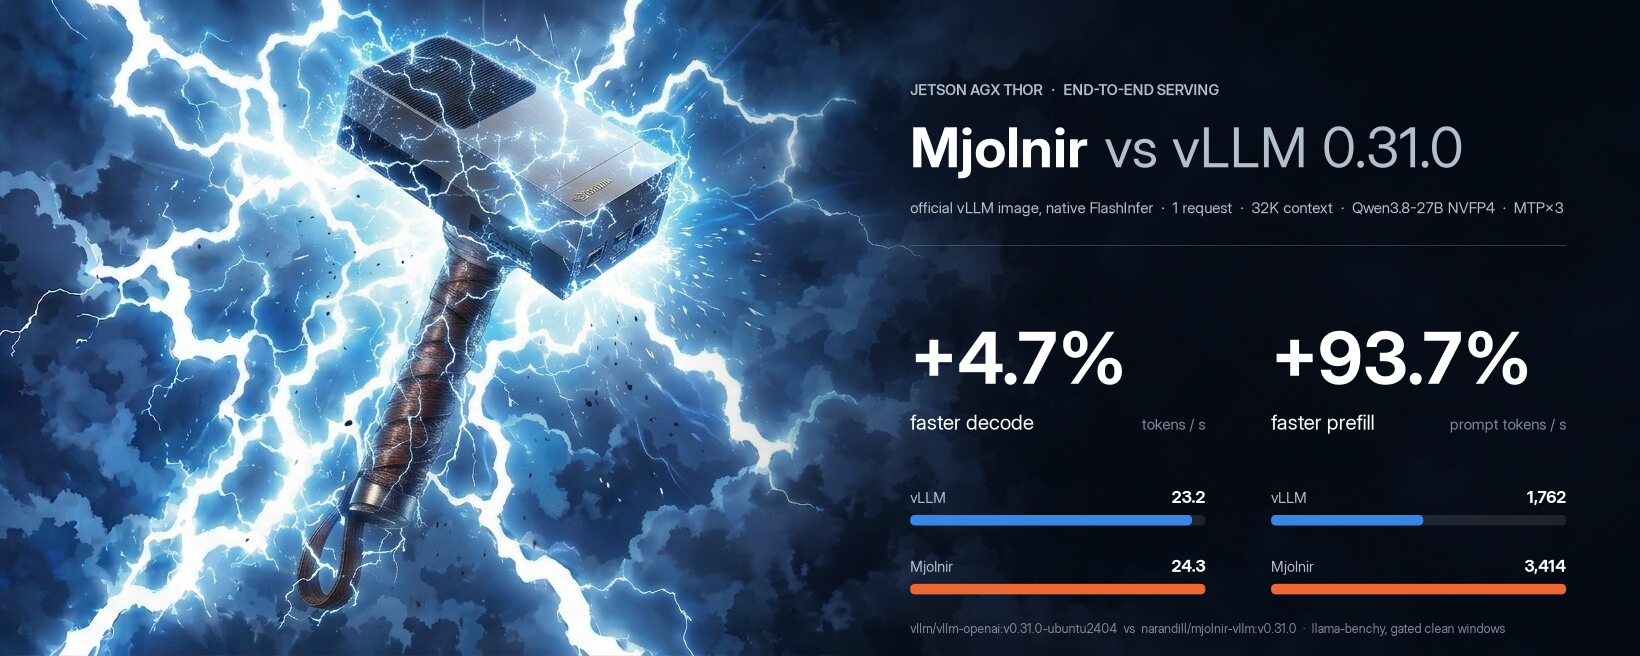
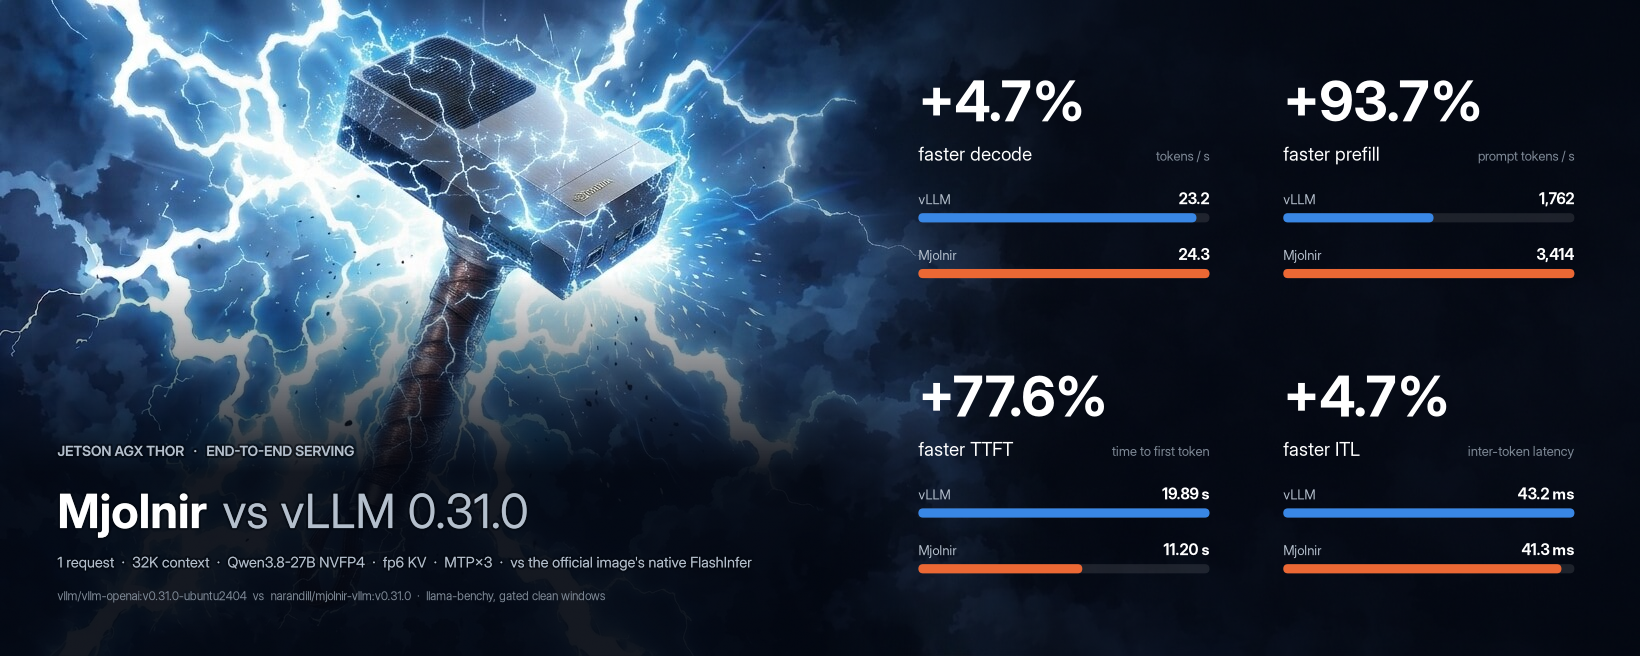
infographic: four metrics; e2e: merge runs per cell; decode experiment plan
- opening infographic: decode, prefill, TTFT and ITL as four stat blocks on
  the right; the claim, scenario and provenance bottom-left under the
  hammer, lifted off the edge, over a taller bottom scrim with a text halo
- e2e.latest_pair merges each side's runs cell by cell (newest run wins a
  shared cell; runs with a different MTP setup are skipped), so
  bench e2e --depths 65536,131072 adds rows instead of replacing the table;
  the hero follows the longest context both sides measured
- verify spec: per-request TTFT (ttft_list_ms, ttft_p50_ms)
- docs/research/decode-experiments.md: per-step budget from verify spec
  (verify forward vs per-draft cost), the ranked experiment list with A/B
  commands; AGENTS open work points at it

diff --git a/src/mjolnir-cli/mjolnir_cli/charts.py b/src/mjolnir-cli/mjolnir_cli/charts.py
@@ -895,14 +895,16 @@ def render_infographic(layout: RepoLayout) -> Path | None:
     """``assets/opening-infographic.png`` — the README hero.
 
     ``assets/background.jpeg`` (the Thor-as-Mjolnir art on the left) stays
-    untouched; everything sits on the dark right half: the claim, the
-    scenario, and two stat columns — decode and prefill — each with the gain
-    as the big number and the two measured throughputs as bars. Every number
-    comes from the latest history pair (:func:`mjolnir_cli.e2e.latest_pair`):
-    native FlashInfer on the official vLLM image vs the Mjolnir backend on the
-    Mjolnir image, one request at the longest context both measured."""
+    untouched. Four stat blocks fill the dark right half — decode, prefill,
+    time to first token, inter-token latency — each with the gain as the big
+    number and the two measured values as bars; the claim, the scenario and
+    the provenance sit bottom-left, under the hammer (a bottom scrim keeps
+    them readable over the handle). Every number comes from the latest
+    history pair (:func:`mjolnir_cli.e2e.latest_pair`): native FlashInfer on
+    the official vLLM image vs the Mjolnir backend on the Mjolnir image, one
+    request at the longest context both measured."""
     import numpy as np
-    from matplotlib.patches import FancyBboxPatch, Rectangle
+    from matplotlib.patches import FancyBboxPatch
 
     from mjolnir_cli import e2e
 
@@ -924,12 +926,14 @@ def render_infographic(layout: RepoLayout) -> Path | None:
     ax.set_xlim(0, W)
     ax.set_ylim(0, H)
     ax.imshow(bg, extent=(0, W, 0, H), zorder=0)
-    # scrim only behind the text: transparent over the art, navy on the right
-    x = np.linspace(0, 1, 512)
-    alpha = np.clip((x - 0.40) / 0.25, 0, 1) ** 1.5 * 0.72
-    scrim = np.zeros((1, 512, 4))
+    # scrims: navy on the right (the stats), and up from the bottom-left
+    # corner (the title block over the hammer's handle); clear elsewhere
+    gx, gy = np.meshgrid(np.linspace(0, 1, 512), np.linspace(1, 0, 256))  # row 0 = top
+    right = np.clip((gx - 0.42) / 0.22, 0, 1) ** 1.5 * 0.76
+    bottom = np.clip((0.58 - gy) / 0.30, 0, 1) ** 0.9 * 0.93 * np.clip((0.66 - gx) / 0.16, 0, 1)
+    scrim = np.zeros((256, 512, 4))
     scrim[..., :3] = np.array([3, 7, 16]) / 255
-    scrim[..., 3] = alpha
+    scrim[..., 3] = np.maximum(right, bottom)
     ax.imshow(scrim, extent=(0, W, 0, H), aspect="auto", zorder=1)
 
     disp = _display_family()
@@ -938,81 +942,101 @@ def render_infographic(layout: RepoLayout) -> Path | None:
     ver = str(off.get("image", "")).split(":")[-1].split("-")[0].lstrip("v")
     model = str(mj.get("model", "")).split("/")[-1]
     quant = str(mj.get("config", "")).split("_")[0]
+    kv = "fp6 KV" if "E2M3" in str(mj.get("config", "")) else "fp8 KV"
+
+    from matplotlib import patheffects
+
+    halo = [patheffects.withStroke(linewidth=3, foreground=(0.01, 0.03, 0.06, 0.55))]
 
     def T(xf, yf, text, size, color=white, weight="normal", ha="left", **kw):
-        ax.text(xf * W, yf * H, text, fontsize=size, color=color, weight=weight, ha=ha, family=disp, zorder=6, **kw)
+        return ax.text(
+            xf * W, yf * H, text, fontsize=size, color=color, weight=weight, ha=ha, family=disp, zorder=6, **kw
+        )
 
-    L, R = 0.555, 0.955
-    T(L, 0.855, "JETSON AGX THOR   ·   END-TO-END SERVING", 10.5, dim, "semibold")
-    title = ax.text(L * W, 0.745 * H, "Mjolnir", fontsize=40, color=white, weight="bold", family=disp, zorder=6)
-    x_after = title.get_window_extent(renderer=fig.canvas.get_renderer()).x1  # pixels == data units here
-    ax.text(x_after + 16, 0.745 * H, f"vs vLLM {ver}", fontsize=40, color=dim, family=disp, zorder=6)
-    T(
-        L,
-        0.675,
-        f"official vLLM image, native FlashInfer  ·  1 request  ·  {e2e.ctx_label(h['ctx'])} context  ·  "
-        f"{model} {quant}  ·  {e2e.spec_short(off, mj)}",
-        11,
-        dim,
+    # ── bottom-left: claim, scenario, provenance ──────────────────────────
+    BL, BY = 0.035, 0.05  # left margin; lift of the whole block off the bottom edge
+    T(BL, BY + 0.255, "JETSON AGX THOR   ·   END-TO-END SERVING", 10, dim, "semibold", path_effects=halo)
+    title = T(BL, BY + 0.145, "Mjolnir", 34, white, "bold", path_effects=halo)
+    x_after = title.get_window_extent(renderer=fig.canvas.get_renderer()).x1
+    ax.text(
+        x_after + 14,
+        (BY + 0.145) * H,
+        f"vs vLLM {ver}",
+        fontsize=34,
+        color=dim,
+        family=disp,
+        zorder=6,
+        path_effects=halo,
     )
-    ax.add_patch(Rectangle((L * W, 0.625 * H), (R - L) * W, 1.0, color=(1, 1, 1, 0.18), lw=0, zorder=5))
+    T(
+        BL,
+        BY + 0.085,
+        f"1 request  ·  {e2e.ctx_label(h['ctx'])} context  ·  {model} {quant}  ·  {kv}  ·  {e2e.spec_short(off, mj)}"
+        "  ·  vs the official image's native FlashInfer",
+        10.5,
+        dim,
+        path_effects=halo,
+    )
+    T(
+        BL,
+        BY + 0.035,
+        f"{off.get('image', '')}  vs  {mj.get('image', '')}  ·  llama-benchy, gated clean windows",
+        8.5,
+        faint,
+    )
 
-    cols = (("tg_tps", "decode", "{:.1f}", "tokens / s"), ("pp_tps", "prefill", "{:,.0f}", "prompt tokens / s"))
-    gap = 0.04
+    # ── right: four stat blocks ────────────────────────────────────────────
+    blocks = (
+        ("tg_tps", "faster decode", "slower decode", "tokens / s", "{:.1f}"),
+        ("pp_tps", "faster prefill", "slower prefill", "prompt tokens / s", "{:,.0f}"),
+        ("ttft_ms", "faster TTFT", "slower TTFT", "time to first token", None),
+        ("itl_ms", "faster ITL", "slower ITL", "inter-token latency", "{:.1f} ms"),
+    )
+    L, R, gap = 0.56, 0.96, 0.045
     cw = (R - L - gap) / 2
-    for i, (key, name, fmt, unit) in enumerate(cols):
-        x0 = L + i * (cw + gap)
-        va, vb, gain = h[key]
-        T(x0, 0.415, e2e.pct(gain), 52, white, "bold")
-        word = "faster" if gain >= 0 else "slower"
-        T(x0, 0.345, f"{word} {name}", 15, white)
-        T(x0 + cw, 0.345, unit, 11, faint, ha="right")
+    tops = (0.93, 0.48)
+
+    def fmt_ttft(v: float) -> str:
+        return f"{v / 1000:.2f} s" if v >= 1000 else f"{v:,.0f} ms"
+
+    for i, (key, better, worse, unit, fmt) in enumerate(blocks):
+        va, vb, gain = h.get(key) or (None, None, None)
+        if va is None or vb is None or gain is None:
+            continue
+        x0 = L + (i % 2) * (cw + gap)
+        y0 = tops[i // 2]
+        T(x0, y0 - 0.115, e2e.pct(gain), 40, white, "bold")
+        T(x0, y0 - 0.175, better if gain >= 0 else worse, 13.5, white)
+        T(x0 + cw, y0 - 0.175, unit, 9.5, faint, ha="right")
         X, BW = x0 * W, cw * W
         vmax = max(va, vb)
         for j, (lbl, v, col) in enumerate((("vLLM", va, c_off), ("Mjolnir", vb, c_mj))):
-            y = (0.215 - j * 0.105) * H
-            ax.text(X, y + 12, lbl, fontsize=10.5, color=dim, family=disp, zorder=6)
+            y = (y0 - 0.255 - j * 0.085) * H
+            ax.text(X, y + 9, lbl, fontsize=9.5, color=dim, family=disp, zorder=6)
             ax.text(
                 X + BW,
-                y + 12,
-                fmt.format(v),
-                fontsize=12,
+                y + 9,
+                fmt_ttft(v) if fmt is None else fmt.format(v),
+                fontsize=11,
                 color=white,
                 weight="bold",
                 ha="right",
                 family=disp,
                 zorder=6,
             )
-            bh = 0.016 * H
-            ax.add_patch(
-                FancyBboxPatch(
-                    (X, y - bh),
-                    BW,
-                    bh,
-                    boxstyle=f"round,pad=0,rounding_size={bh / 2:.1f}",
-                    facecolor=(1, 1, 1, 0.10),
-                    edgecolor="none",
-                    zorder=5,
+            bh = 0.014 * H
+            for width, face, z in ((BW, (1, 1, 1, 0.10), 5), (max(BW * v / vmax, bh), col, 6)):
+                ax.add_patch(
+                    FancyBboxPatch(
+                        (X, y - bh),
+                        width,
+                        bh,
+                        boxstyle=f"round,pad=0,rounding_size={bh / 2:.1f}",
+                        facecolor=face,
+                        edgecolor="none",
+                        zorder=z,
+                    )
                 )
-            )
-            ax.add_patch(
-                FancyBboxPatch(
-                    (X, y - bh),
-                    max(BW * v / vmax, bh),
-                    bh,
-                    boxstyle=f"round,pad=0,rounding_size={bh / 2:.1f}",
-                    facecolor=col,
-                    edgecolor="none",
-                    zorder=6,
-                )
-            )
-    T(
-        L,
-        0.035,
-        f"{off.get('image', '')}  vs  {mj.get('image', '')}  ·  llama-benchy, gated clean windows",
-        9,
-        faint,
-    )
 
     out = layout.repo_root / "assets" / INFOGRAPHIC
     fig.savefig(out, dpi=100)

diff --git a/src/mjolnir-cli/mjolnir_cli/e2e.py b/src/mjolnir-cli/mjolnir_cli/e2e.py
@@ -68,20 +68,54 @@ def is_mjolnir(rec: dict) -> bool:
     return str(rec.get("image", "")).startswith(_MJOLNIR_IMAGE_PREFIXES)
 
 
+def _merge(recs: list[dict]) -> dict | None:
+    """One side's records → the newest record, with every (concurrency,
+    context) cell taken from the newest run that measured it. A run at extra
+    depths (``bench e2e --depths 65536,131072``) adds cells instead of
+    replacing the table; runs with a different speculative setup than the
+    newest one are left out. ``merged_runs`` lists the raw dirs used."""
+    if not recs:
+        return None
+    recs = sorted(recs, key=lambda r: r.get("epoch", 0), reverse=True)
+    head = recs[0]
+    sp = spec_of(head)
+    cells: dict = {}
+    used: list[str] = []
+    for r in recs:
+        if spec_of(r) != sp:
+            continue
+        took = False
+        for c in r.get("cells", []):
+            k = (c.get("concurrency"), c.get("context") or 0, bool(c.get("prefill_phase")))
+            if k not in cells:
+                cells[k] = c
+                took = True
+        if took:
+            used.append(str(r.get("raw", "")))
+    out = dict(head)
+    out["cells"] = sorted(cells.values(), key=lambda c: (c.get("concurrency") or 0, c.get("context") or 0))
+    out["merged_runs"] = used
+    return out
+
+
 def latest_pair(history_file: Path, mjolnir_config: str | None = None) -> tuple[dict | None, dict | None]:
-    """(official, mjolnir) — the newest record of each side: a stock config on
-    the official image, and the Mjolnir backend config (default
-    ``NVFP4_MJOLNIR``) on a Mjolnir image. Nothing else qualifies."""
+    """(official, mjolnir): each side's runs merged cell by cell, newest run
+    first (:func:`_merge`) — a stock config on the official image, and the
+    Mjolnir backend config (default ``DEFAULT_QUANT``) on a Mjolnir image.
+    Nothing else qualifies; the official side follows its newest config."""
     want = mjolnir_config or DEFAULT_QUANT
-    off = mj = None
+    offs, mjs = [], []
     for r in load_records(history_file):
         if not r.get("cells"):
             continue
         if is_official(r) and r.get("config") != want:
-            off = r if off is None or r.get("epoch", 0) >= off.get("epoch", 0) else off
+            offs.append(r)
         elif is_mjolnir(r) and r.get("config") == want:
-            mj = r if mj is None or r.get("epoch", 0) >= mj.get("epoch", 0) else mj
-    return off, mj
+            mjs.append(r)
+    if offs:  # one official config: the newest run's
+        newest = max(offs, key=lambda r: r.get("epoch", 0)).get("config")
+        offs = [r for r in offs if r.get("config") == newest]
+    return _merge(offs), _merge(mjs)
 
 
 def cell(rec: dict, conc: int, ctx: int) -> dict | None:

diff --git a/tests/cli/test_e2e.py b/tests/cli/test_e2e.py
@@ -143,3 +143,22 @@ def test_each_leg_stops_its_server(monkeypatch):
     with pytest.raises(typer.Exit):
         cli._run_legs(s, None, [(s.model, "a", "NVFP4", None)])
     assert calls[-1] == ("down", "NVFP4")  # stopped even when the bench fails
+
+
+def test_runs_merge_cell_by_cell(tmp_path):
+    """A later run at extra depths adds rows; the newest run wins shared cells."""
+    h = tmp_path / "history.jsonl"
+    off = "vllm/vllm-openai:v0.31.0-ubuntu2404"
+    mjim = "narandill/mjolnir-vllm:v0.31.0"
+    rows = [
+        _rec(off, "NVFP4", 1, [_cell(1, 8192, 20, 2000, 4000), _cell(1, 32768, 18, 1700, 9000)]),
+        _rec(mjim, "NVFP4_MJOLNIR", 2, [_cell(1, 8192, 22, 4000, 3000), _cell(1, 32768, 19, 3400, 5000)]),
+        _rec(off, "NVFP4", 3, [_cell(1, 131072, 12, 900, 90000)]),
+        _rec(mjim, "NVFP4_MJOLNIR", 4, [_cell(1, 131072, 14, 1800, 50000), _cell(1, 8192, 23, 4100, 2900)]),
+    ]
+    h.write_text("".join(json.dumps(r) + "\n" for r in rows))
+    o, m = e2e.latest_pair(h, "NVFP4_MJOLNIR")
+    assert sorted(c["context"] for c in o["cells"]) == [8192, 32768, 131072]
+    assert e2e.cell(m, 1, 8192)["tg_tps"]["mean"] == 23  # newest run wins
+    assert e2e.cell(m, 1, 32768)["tg_tps"]["mean"] == 19  # kept from the older run
+    assert e2e.hero(o, m)["ctx"] == 131072

diff --git a/src/mjolnir-cli/mjolnir_cli/verify/spec.py b/src/mjolnir-cli/mjolnir_cli/verify/spec.py
@@ -185,6 +185,9 @@ def run_block(s, prompts: list[str], conc: int, max_tokens: int) -> dict:
         "decode_tps": round(sum(tps) / len(tps), 3) if tps else None,  # per request, mean
         "agg_tps": round(tokens / wall, 3) if wall > 0 else None,  # all requests, incl. prefill time
         "ttft_ms": round(sum(ttft) / len(ttft), 1) if ttft else None,
+        # per request, in completion order: the mean hides a few slow first steps
+        "ttft_p50_ms": round(sorted(ttft)[len(ttft) // 2], 1) if ttft else None,
+        "ttft_list_ms": [round(x, 1) for x in ttft],
         **{k: stats.get(k) for k in ("acceptance_length", "acceptance_rate", "per_pos", "drafts", "preemptions")},
     }
 

diff --git a/docs/research/decode-experiments.md b/docs/research/decode-experiments.md
@@ -1,0 +1,57 @@
+# Decode-path experiments — ranked by expected decode impact
+
+Status: plan, 2026-10-12. Inputs: `mjolnir verify spec` run `20261011-220331`,
+`verify sweep --batch 4 --q-len 4` run `20261011-211511`, `verify kv-cache-size`
+run `20261011-213435`, e2e records of 2026-10-12 (`benchmarks/history.jsonl`).
+
+## Where a decode step goes (Qwen3.8-27B NVFP4, MTP, measured)
+
+`verify spec` serves each config at 1–4 draft tokens on the same prompts at
+temperature 0. Step time = tokens per step ÷ decode t/s; a straight-line fit
+over k gives the verify forward and the cost of each draft forward:
+
+| config (1 request) | verify forward | per draft | step at k=3 | tokens/step at k=3 |
+|---|--:|--:|--:|--:|
+| official vLLM, FlashInfer fp8 | 82.6 ms | 12.7 ms | 120.5 ms | 3.08 |
+| Mjolnir fp8 KV | 71.4 ms | 15.4 ms | 115.8 ms | 3.04 |
+| Mjolnir fp6 KV | 72.4 ms | 15.0 ms | 117.3 ms | 3.12 |
+
+- The Mjolnir image's **verify forward is ~10 ms (13%) faster**; each **draft
+  forward is ~2.3 ms (18%) slower**. With 3 drafts the two nearly cancel at
+  4 requests (77.9 + 3×16.4 vs 82.7 + 3×14.6 ms) — the c=4 e2e deficit.
+- **Acceptance is the same** on both images (k=3: 3.08 / 3.04 / 3.12 tokens per
+  step; e2e: 2.976 vs 2.972) — fp8 Q and fp6 KV do not cost acceptance.
+- **k=3 is the right draft count today** (k=4 adds ~0.3 tokens/step for ~13%
+  more step time).
+- From the checkpoint config: the bf16 `lm_head` (248,320 × 5,120, 2.54 GB)
+  is read by the verify and by every draft (4× per step ≈ 10 GB of ~26 GB);
+  the bf16 MTP layer (~0.7 GB) 3×. Attention at ≤32K is 1–4% of the step.
+
+## The list
+
+| # | experiment | expected decode gain | effort | how to A/B |
+|---|---|---|---|---|
+| 1 | **Find the draft-step overhead** (+2.3 ms per draft vs official): is the drafter's attention CUDA-graphed on MJOLNIR, does the first draft step (variable accepted length) fall back to FA4 + fp6 page expansion, Python plan cost per draft | +5–6% at k=3, closes the c=4 gap | low (diagnosis) | `mjolnir serve logs \| grep -iE "cudagraph\|Capturing\|draft"`; nsys on one decode window; then `mjolnir verify spec --legs official:NVFP4,mjolnir:NVFP4_MJOLNIR_E2M3 --drafts "1 3" --concurrency "1 4"` (the per-draft slope must drop to ≤12.7 ms) |
+| 2 | **fp8 lm_head** (per-row scales, quantized at load; shared by verify and drafts) — Thor patch, opt-in config | ~+20% (−5 GB/step) | medium | after the patch, config `NVFP4_MJOLNIR_E2M3_LMH8`: `mjolnir verify vllm` (smoke) → `mjolnir verify spec --legs mjolnir:NVFP4_MJOLNIR_E2M3,mjolnir:NVFP4_MJOLNIR_E2M3_LMH8 --drafts "3 4"` (acceptance must hold) → `mjolnir bench ab --backends NVFP4_MJOLNIR_E2M3,NVFP4_MJOLNIR_E2M3_LMH8 --repeat 2` |
+| 3 | **VocabTrim for the MTP draft head**: draft logits over the ~32K most frequent target tokens (counted on the target's own generations — the `mjolnir calibrate` prompt set), mapped back for verification | ~+15–20% (−6.6 GB/step bf16; −3.3 GB on top of #2); paper: 2–5% acceptance drop | medium-high | config `…_VT32K`: `mjolnir verify spec --legs mjolnir:NVFP4_MJOLNIR_E2M3,mjolnir:NVFP4_MJOLNIR_E2M3_VT32K --drafts "2 3 4"` (cheaper drafts may move the best k to 4) → `mjolnir bench ab --backends …` |
+| 4 | **fp8 MTP layer** (the drafter's transformer layer is bf16 in the checkpoint) | ~+3–4% (−1 GB/step) | low on top of #2 | same as #2, config `…_MTP8` |
+| 5 | **Re-tune / adapt the draft length**: after #2–#4 drafts get cheap, so re-run the sweep; then adaptive length (stop drafting when the draft's top-1 probability drops — SpecDec++ / PACER style) | +3–5% | low (re-tune) / medium (adaptive) | `mjolnir verify spec --drafts "2 3 4 5"`; adaptive behind a flag, same command |
+| 6 | **Long-context decode** — measure where the kernel matters: at 128K, attention is ~25% of a 1-request step and the kernel is 1.3–1.5× FlashInfer | +5–10% at 64K–128K (estimate) | none (bench) | `mjolnir bench e2e --depths 65536,131072 --concurrency 1 --runs 3` (cells merge into the table) |
+| 7 | **fp6 bandwidth gap**: fp6 streams at ~200 GB/s vs fp8's ~230 (64-byte L2 requests, `fp6prof`) — closing it is +15% kernel at long L | +3–4% e2e at 128K | medium-high (kernel) | `mjolnir verify fp6prof`, `mjolnir verify sweep --batch 4 --q-len 4` |
+| 8 | **NVFP4 KV with a Hadamard rotation** (BitDecoding / KVLinC): rotate K's head dim (fold the rotation into Q like the per-channel scales), 4-bit KV | ≤1% at ≤32K; ~+5% at 128K; +33% KV capacity over fp6 | high + accuracy risk | `mjolnir verify quant`, `mjolnir verify kvfmt`; later a `NVFP4_MJOLNIR_FP4KV` config through `verify vllm` (smoke) and `verify spec` |
+| 9 | **Short-context route** (PersistentKV-style): below ~1–2K tokens skip split-KV + merge (Mjolnir is 0.5× FlashInfer at L=128: +16 µs × 16 layers) | <0.5% | low | `mjolnir verify sweep --ls "128 1024 2048 4096" --batch 4 --q-len 4` |
+
+Not decode, but found on the way: **TTFT on short prompts** is ~0.2 s slower
+on the Mjolnir image in `verify spec` (c=1 mean 534–653 ms vs 341–464 ms;
+c=4 1.2–1.5 s vs 0.33 s), while 2K+ prompts are much faster (e2e). `verify
+spec` now stores per-request TTFT (`ttft_list_ms`, `ttft_p50_ms`): a few
+outliers point at a one-off compile per prompt shape (FA4), a uniform shift
+at the fallback's per-step overhead.
+
+## References
+
+- [VocabTrim (arXiv 2506.22694)](https://arxiv.org/abs/2506.22694) — trimmed drafter LM head, +16–25% memory-bound speedup.
+- [SpecDec++ (arXiv 2405.19715)](https://arxiv.org/abs/2405.19715), [PACER (arXiv 2602.01274)](https://arxiv.org/abs/2602.01274) — adaptive draft length.
+- [BitDecoding (arXiv 2503.18773)](https://arxiv.org/abs/2503.18773) — low-bit / NVFP4 KV decode on tensor cores, Blackwell.
+- [KVLinC (arXiv 2510.05373)](https://arxiv.org/abs/2510.05373) — Hadamard rotation + linear correction for 2–4-bit KV.
+- [PersistentKV (arXiv 2606.26666)](https://arxiv.org/abs/2606.26666) — per-step route selection on a small-SM GPU.

diff --git a/AGENTS.md b/AGENTS.md
@@ -223,6 +223,9 @@ trusted publishing — and the image (vLLM version, on push to `main`).
 - [ ] **e2e at the shapes that matter**: decode gains need long contexts
       (64K+) and concurrency; `mjolnir verify sweep --batch 4 --q-len 4`
       measures the MTP=3 verify shape in ncu.
+- [ ] **Decode beyond attention**: the ranked experiment list with A/B
+      commands is `docs/research/decode-experiments.md` (draft-step overhead,
+      fp8 lm_head, VocabTrim draft head, fp8 MTP layer, draft length, long L).
 - [ ] **fp6 byte-vs-time gap**: 64-byte L2 requests (`docs/kernel/fp6prof.md`).
 - [ ] Fuse the split-KV merge into the last CTA per sequence.
 - [ ] fp4 with finer scales (per-channel K folded into Q, per-token V into P).
